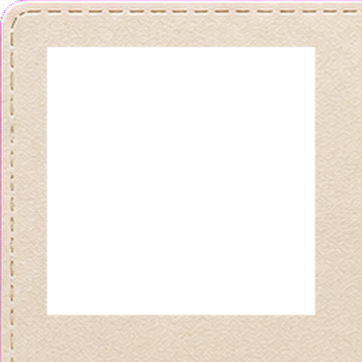
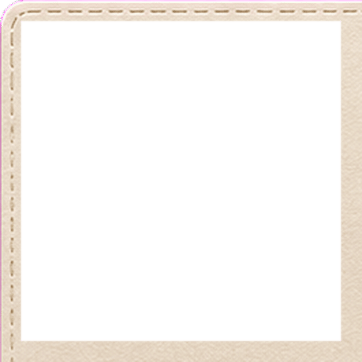
OriVex: show the paper background through the board + bigger pieces, thinner lines
Per Stephen's feedback on the folded-paper skin:
- Empty board slots were an opaque dark #0e140d that hid the beautiful paper
  background. Now a translucent rgba(18,22,14,0.26) tint with faint cream grid
  lines (enamel skin only) so the themed background stays visible through the bed.
- The tile_frame paper border was a heavy 13% rim that shrank the facets. Re-cut
  to a thin 6% stitched rim → the paper facets are much bigger, tiles read larger.
- Thinned the match/mismatch seam lines (s*0.06 -> s*0.042) so placed pieces
  aren't boxed in by thick borders.
- Re-cut win_bloom (the origami crane) with the border-flood + inpaint cutter —
  the old crop-key left a magenta bleed under the crane; now 0 residual magenta.
- Bump PV_ASSET_V ov1->ov2 + portal ?v=ov2 so it refreshes past the host cache.

Verified headless: empty board shows the paper bg through translucent cells;
solved board shows big facets + thin frames + thin green seams; crane clean.

Changed region(s): [[0.0608, 0.0608, 0.942, 0.942]]

diff --git a/portal/index.html b/portal/index.html
@@ -461,7 +461,7 @@ var FEATURED = [
   // earns via _sbCapEarn (30/day). Glyph cards until thumbnails land.
   {nm:"Bloomzap", ds:"A quiet botanical word garden. Grow a whole bed of words from one shared set of eight letters as fast as you can, then come back and beat your own best time. Three beds to fill, from a quick five-word bloom to a full ten-word thicket. A calm solo remake of the 1991 word game WordZap.", url:"/satellites/bloomzap/", ic:"⚡"},
   {nm:"Rootbound", ds:"A botanical sliding puzzle. The golden bloom is boxed in by the other planters, so shuffle them aside and slide it free out the garden gate. There are 41 hand graded beds, from a gentle opener to the fiendish old Huarong knot, each with a par to beat, three stars to earn, and a nudge for when the roots tangle. A remake of the classic Klotski.", url:"/satellites/rootbound/", ic:"🪴"},
-  {nm:"OriVex", ds:"Slot the folded paper tiles so every touching edge shares a number, in a quiet origami remake of the classic edge matcher TetraVex.", url:"/satellites/petalvex/?v=ov1", ic:"🍃", thumb:"/portal-assets/thumbs/petalvex.jpg"},
+  {nm:"OriVex", ds:"Slot the folded paper tiles so every touching edge shares a number, in a quiet origami remake of the classic edge matcher TetraVex.", url:"/satellites/petalvex/?v=ov2", ic:"🍃", thumb:"/portal-assets/thumbs/petalvex.jpg"},
   {nm:"Hedgerow", ds:"Grow hedge walls to fence the garden pests into a corner and win back the bed. Aim a wall across or up and down, close off a patch with no pests in it and it plants itself, and keep your nerve, because a pest that bumps a hedge while it is still growing wilts it flat. Reclaim three quarters of each ground to move on. A remake of the classic JezzBall.", url:"/satellites/hedgerow/", ic:"🌳"},
   {nm:"Grubtrap", ds:"You are a field mouse in an overrun bed. Shove the stone planters, a whole row at a time, to box the garden grubs into a corner until they curl into harmless seedballs. Pen every grub to clear the ground, and do not let one crawl onto you. Later grounds bring more grubs and quicker ones. A remake of the classic Rodent's Revenge.", url:"/satellites/grubtrap/", ic:"🐭"},
   {nm:"Jade Garden", ds:"A calm botanical Mahjong solitaire. Match free pairs of painted tiles to clear the garden, reading the stack and working the open edges inward. Six gardens on an easy-to-hard ladder, from a wide open bed to the classic raised turtle shell, every deal guaranteed solvable, with a hint, an undo, and a reshuffle that can never strand you.", url:"/satellites/mahjong/", ic:"🀄"},

diff --git a/satellites/petalvex/index.html b/satellites/petalvex/index.html
@@ -403,7 +403,7 @@ function drawTile(g, x, y, s, tile, alpha, seamState){
     g.fillStyle='#c8a84b'; g.fillRect(lx+ls*0.12, ly+ls*0.42, ls*0.76, ls*0.5); }
   // seam overlays
   if(seamState){
-    var lw=Math.max(3,s*0.06);
+    var lw=Math.max(2,s*0.042);
     /* colour-blind safe: 'bad' seams are thick + dashed, 'match' seams thin + solid,
        so they differ by pattern and width, not colour alone (numbers remain the ground truth). */
     function seam(a,bx,by,ex,ey){ if(!a) return;
@@ -432,7 +432,7 @@ function seamFor(cellIdx){
 
 /* ============================ render ================================= */
 /* ---------- background art (DROP-IN; procedural fills stay as fallback) ---------- */
-var PV_ASSET_V='ov1';
+var PV_ASSET_V='ov2';
 function _pvImg(src){ var im=new Image(); try{ im.src=src+'?v='+PV_ASSET_V; }catch(e){} return im; }
 var PV_BED=_pvImg('assets/bg/bg_bed.jpg');
 var PV_BEDS=(function(){ var a=[],i; for(i=0;i<8;i++)a.push(_pvImg('assets/bg/bg_theme_'+i+'.jpg')); return a; })();
@@ -474,8 +474,9 @@ function render(){
   var i, n=P.n;
   for(i=0;i<n*n;i++){
     var R=cellRect(i);
-    ctx.fillStyle='#0e140d'; ctx.fillRect(R.x,R.y,R.s,R.s);
-    ctx.strokeStyle='#233019'; ctx.lineWidth=1; ctx.strokeRect(R.x+0.5,R.y+0.5,R.s-1,R.s-1);
+    // translucent slot so the paper background stays visible through the empty bed
+    ctx.fillStyle=(SKIN==='enamel')?'rgba(18,22,14,0.26)':'#0e140d'; ctx.fillRect(R.x,R.y,R.s,R.s);
+    ctx.strokeStyle=(SKIN==='enamel')?'rgba(232,220,200,0.22)':'#233019'; ctx.lineWidth=1; ctx.strokeRect(R.x+0.5,R.y+0.5,R.s-1,R.s-1);
   }
   // subtle bed frame
   ctx.strokeStyle='rgba(120,90,52,0.55)'; ctx.lineWidth=3;
